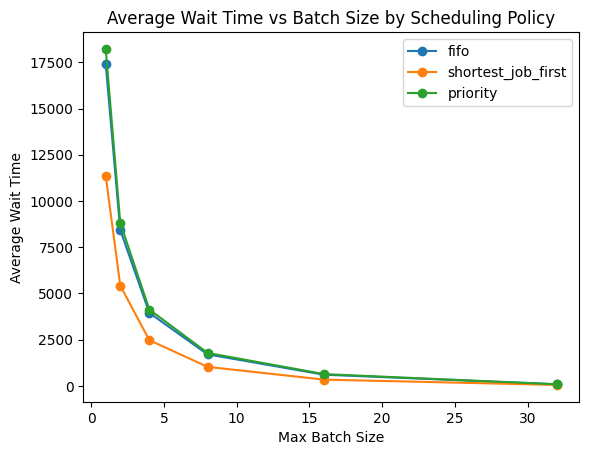
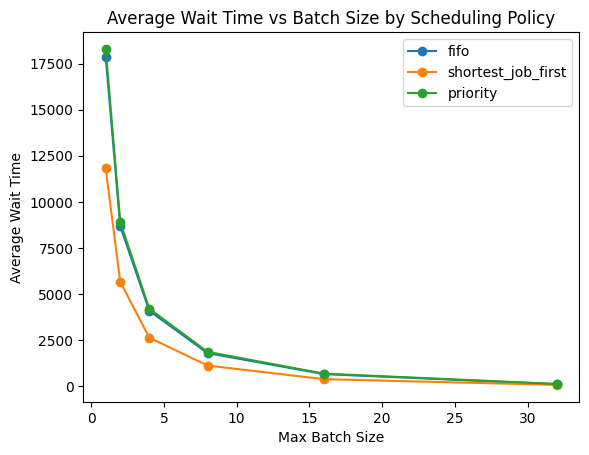
Model prefill and decode phases

diff --git a/src/plot_scheduler_results.py b/src/plot_scheduler_results.py
@@ -17,50 +17,63 @@ print(df)
 
 df.to_csv("results/scheduler_results.csv", index=False)
 
-plt.figure()
-for policy in policies:
-    subset = df[df["policy"] == policy]
-    plt.plot(
-        subset["batch_size"],
-        subset["throughput_reqs_per_step"],
-        marker="o",
-        label=policy,
-    )
 
-plt.xlabel("Max Batch Size")
-plt.ylabel("Throughput: Requests / Step")
-plt.title("Throughput vs Batch Size by Scheduling Policy")
-plt.legend()
-plt.savefig("results/charts/throughput_by_policy.png", bbox_inches="tight")
+def plot_metric(metric, ylabel, title, filename):
+    plt.figure()
+    for policy in policies:
+        subset = df[df["policy"] == policy]
+        plt.plot(
+            subset["batch_size"],
+            subset[metric],
+            marker="o",
+            label=policy,
+        )
 
-plt.figure()
-for policy in policies:
-    subset = df[df["policy"] == policy]
-    plt.plot(
-        subset["batch_size"],
-        subset["p99_latency"],
-        marker="o",
-        label=policy,
-    )
+    plt.xlabel("Max Batch Size")
+    plt.ylabel(ylabel)
+    plt.title(title)
+    plt.legend()
+    plt.savefig(f"results/charts/{filename}", bbox_inches="tight")
 
-plt.xlabel("Max Batch Size")
-plt.ylabel("P99 Latency")
-plt.title("P99 Latency vs Batch Size by Scheduling Policy")
-plt.legend()
-plt.savefig("results/charts/p99_latency_by_policy.png", bbox_inches="tight")
 
-plt.figure()
-for policy in policies:
-    subset = df[df["policy"] == policy]
-    plt.plot(
-        subset["batch_size"],
-        subset["avg_wait_time"],
-        marker="o",
-        label=policy,
-    )
+plot_metric(
+    "throughput_reqs_per_step",
+    "Throughput: Requests / Step",
+    "Throughput vs Batch Size by Scheduling Policy",
+    "throughput_by_policy.png",
+)
 
-plt.xlabel("Max Batch Size")
-plt.ylabel("Average Wait Time")
-plt.title("Average Wait Time vs Batch Size by Scheduling Policy")
-plt.legend()
-plt.savefig("results/charts/wait_time_by_policy.png", bbox_inches="tight")
+plot_metric(
+    "p99_latency",
+    "P99 End-to-End Latency",
+    "P99 End-to-End Latency vs Batch Size by Scheduling Policy",
+    "p99_latency_by_policy.png",
+)
+
+plot_metric(
+    "avg_wait_time",
+    "Average Wait Time",
+    "Average Wait Time vs Batch Size by Scheduling Policy",
+    "wait_time_by_policy.png",
+)
+
+plot_metric(
+    "avg_ttft",
+    "Average TTFT",
+    "Average Time to First Token vs Batch Size",
+    "avg_ttft_by_policy.png",
+)
+
+plot_metric(
+    "p99_ttft",
+    "P99 TTFT",
+    "P99 Time to First Token vs Batch Size",
+    "p99_ttft_by_policy.png",
+)
+
+plot_metric(
+    "avg_tpot",
+    "Average TPOT",
+    "Average Time Per Output Token vs Batch Size",
+    "avg_tpot_by_policy.png",
+)

diff --git a/src/scheduler_simulator.py b/src/scheduler_simulator.py
@@ -1,7 +1,6 @@
-from __future__ import annotations
-
 from dataclasses import dataclass
 from collections import deque
+from typing import Optional
 import random
 import statistics
 
@@ -12,10 +11,14 @@ class Request:
     arrival_time: int
     prompt_tokens: int
     output_tokens: int
-    remaining_tokens: int
     priority: int
-    start_time: int | None = None
-    finish_time: int | None = None
+
+    prefill_remaining_steps: int
+    decode_remaining_tokens: int
+
+    start_time: Optional[int] = None
+    first_token_time: Optional[int] = None
+    finish_time: Optional[int] = None
 
 
 def generate_requests(n=300, seed=42):
@@ -25,16 +28,23 @@ def generate_requests(n=300, seed=42):
 
     for i in range(n):
         time += random.randint(1, 5)
+
+        prompt_tokens = random.choice([64, 128, 512, 1024, 2048])
         output_tokens = random.choice([32, 64, 128, 256])
+
+        # Simplified prefill model:
+        # Larger prompts take more simulation steps before first token.
+        prefill_steps = max(1, prompt_tokens // 256)
 
         requests.append(
             Request(
                 id=i,
                 arrival_time=time,
-                prompt_tokens=random.choice([64, 128, 512, 1024, 2048]),
+                prompt_tokens=prompt_tokens,
                 output_tokens=output_tokens,
-                remaining_tokens=output_tokens,
                 priority=random.choice([1, 2, 3]),  # 3 = highest priority
+                prefill_remaining_steps=prefill_steps,
+                decode_remaining_tokens=output_tokens,
             )
         )
 
@@ -75,10 +85,20 @@ def simulate(max_batch_size: int, policy: str = "fifo"):
             running.append(req)
 
         next_running = []
-        for req in running:
-            req.remaining_tokens -= 1
 
-            if req.remaining_tokens == 0:
+        for req in running:
+            if req.prefill_remaining_steps > 0:
+                req.prefill_remaining_steps -= 1
+
+                if req.prefill_remaining_steps == 0:
+                    req.first_token_time = time
+
+                next_running.append(req)
+                continue
+
+            req.decode_remaining_tokens -= 1
+
+            if req.decode_remaining_tokens == 0:
                 req.finish_time = time
                 finished.append(req)
             else:
@@ -87,17 +107,25 @@ def simulate(max_batch_size: int, policy: str = "fifo"):
         running = next_running
         time += 1
 
-    latencies = [r.finish_time - r.arrival_time for r in finished]
+    end_to_end_latencies = [r.finish_time - r.arrival_time for r in finished]
     wait_times = [r.start_time - r.arrival_time for r in finished]
+    ttfts = [r.first_token_time - r.arrival_time for r in finished]
+    decode_times = [r.finish_time - r.first_token_time for r in finished]
+    tpots = [decode_time / r.output_tokens for r, decode_time in zip(finished, decode_times)]
 
     return {
         "policy": policy,
         "batch_size": max_batch_size,
         "completed": len(finished),
-        "avg_latency": round(statistics.mean(latencies), 2),
-        "p95_latency": round(statistics.quantiles(latencies, n=20)[18], 2),
-        "p99_latency": round(statistics.quantiles(latencies, n=100)[98], 2),
+        "avg_latency": round(statistics.mean(end_to_end_latencies), 2),
+        "p95_latency": round(statistics.quantiles(end_to_end_latencies, n=20)[18], 2),
+        "p99_latency": round(statistics.quantiles(end_to_end_latencies, n=100)[98], 2),
         "avg_wait_time": round(statistics.mean(wait_times), 2),
+        "avg_ttft": round(statistics.mean(ttfts), 2),
+        "p95_ttft": round(statistics.quantiles(ttfts, n=20)[18], 2),
+        "p99_ttft": round(statistics.quantiles(ttfts, n=100)[98], 2),
+        "avg_decode_time": round(statistics.mean(decode_times), 2),
+        "avg_tpot": round(statistics.mean(tpots), 4),
         "total_time": time,
         "throughput_reqs_per_step": round(len(finished) / time, 4),
     }